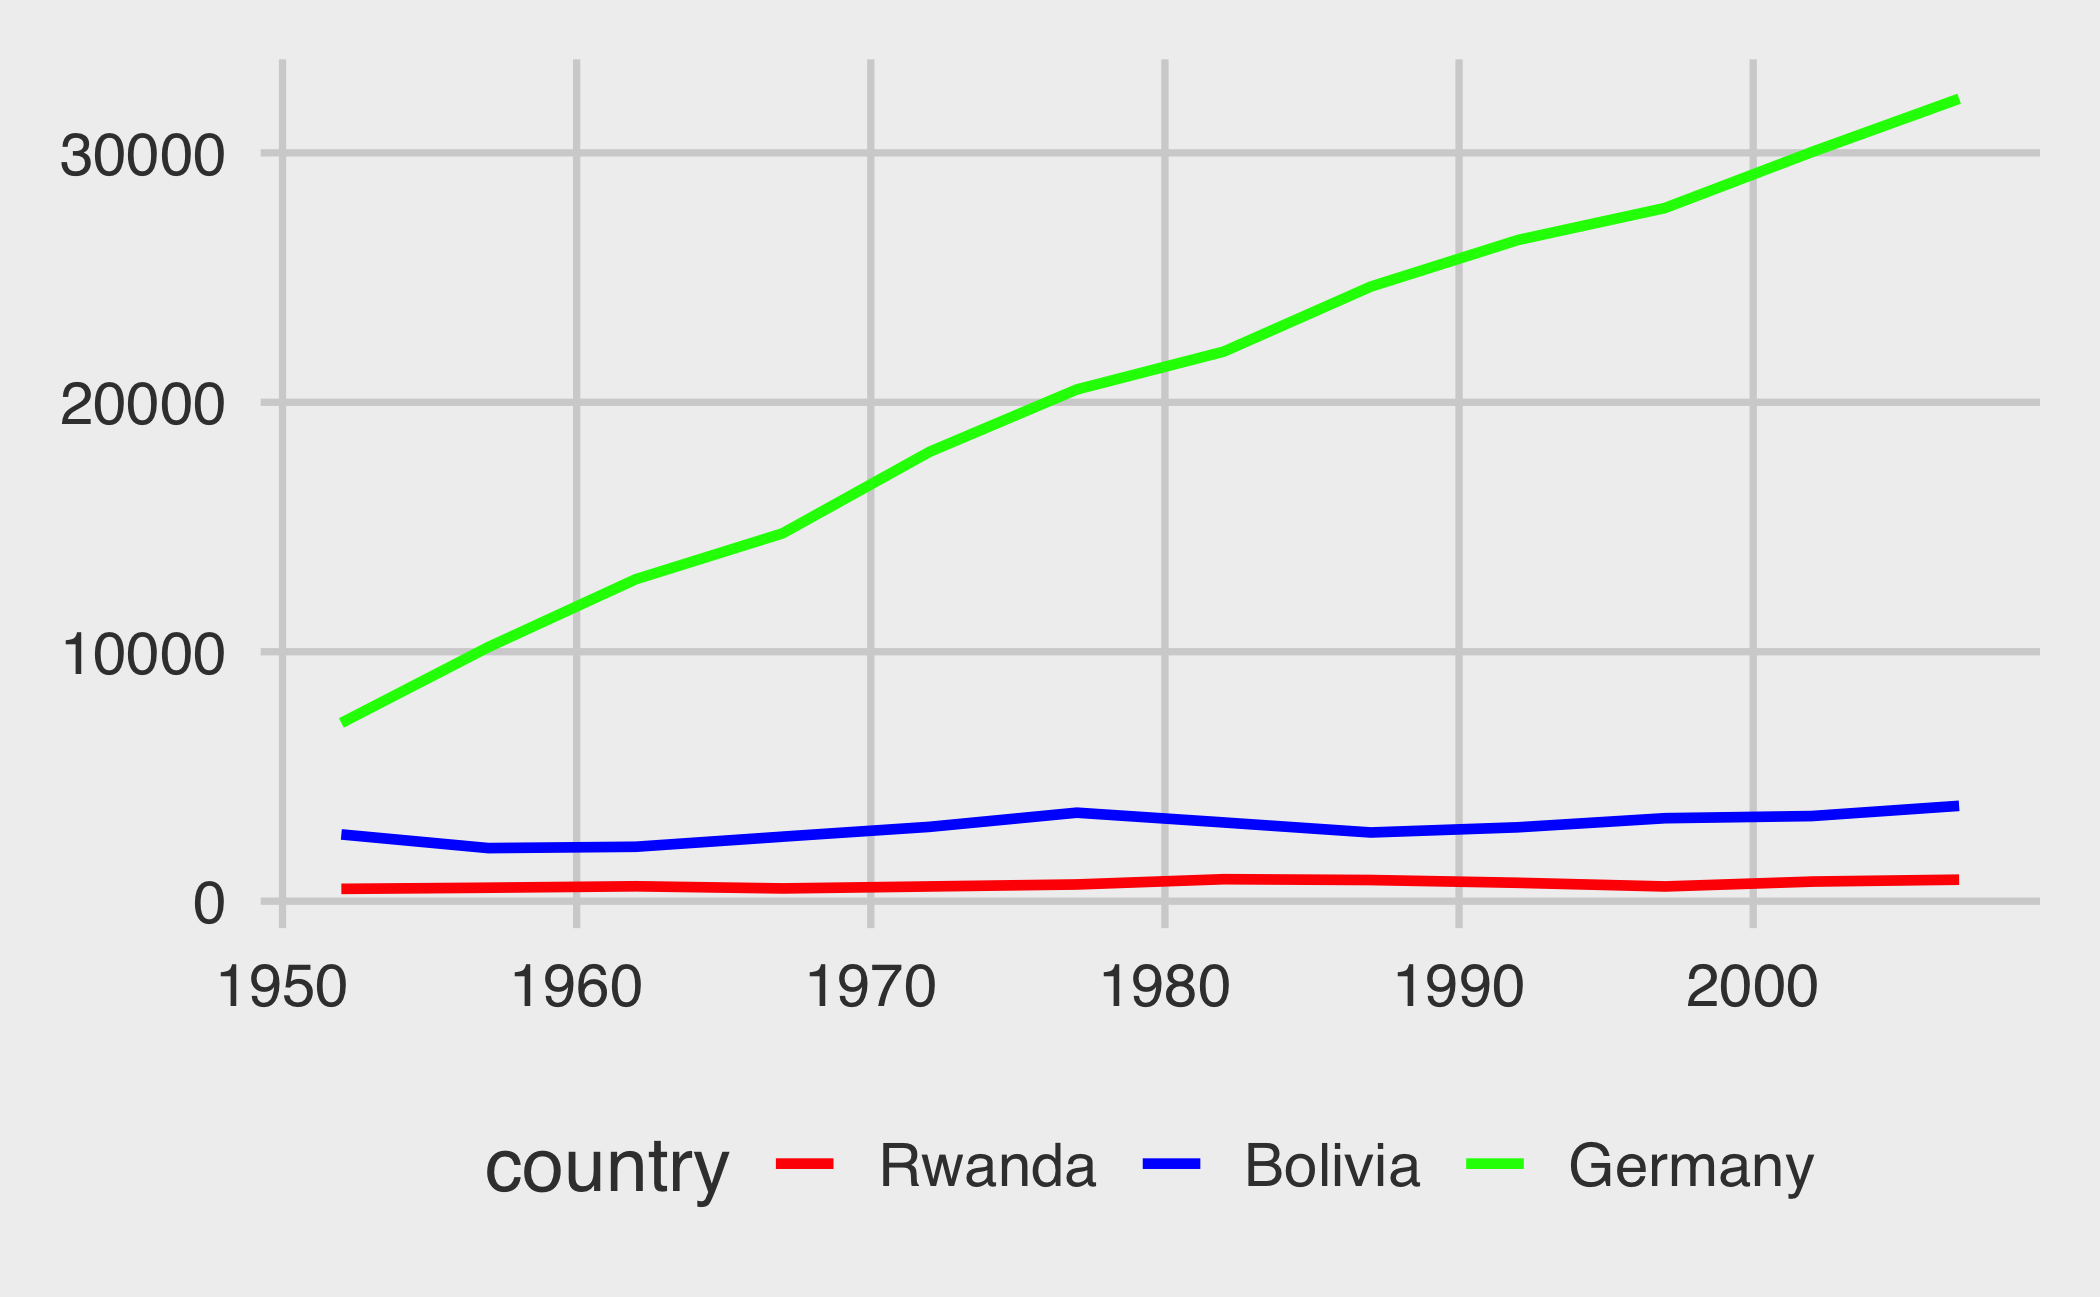
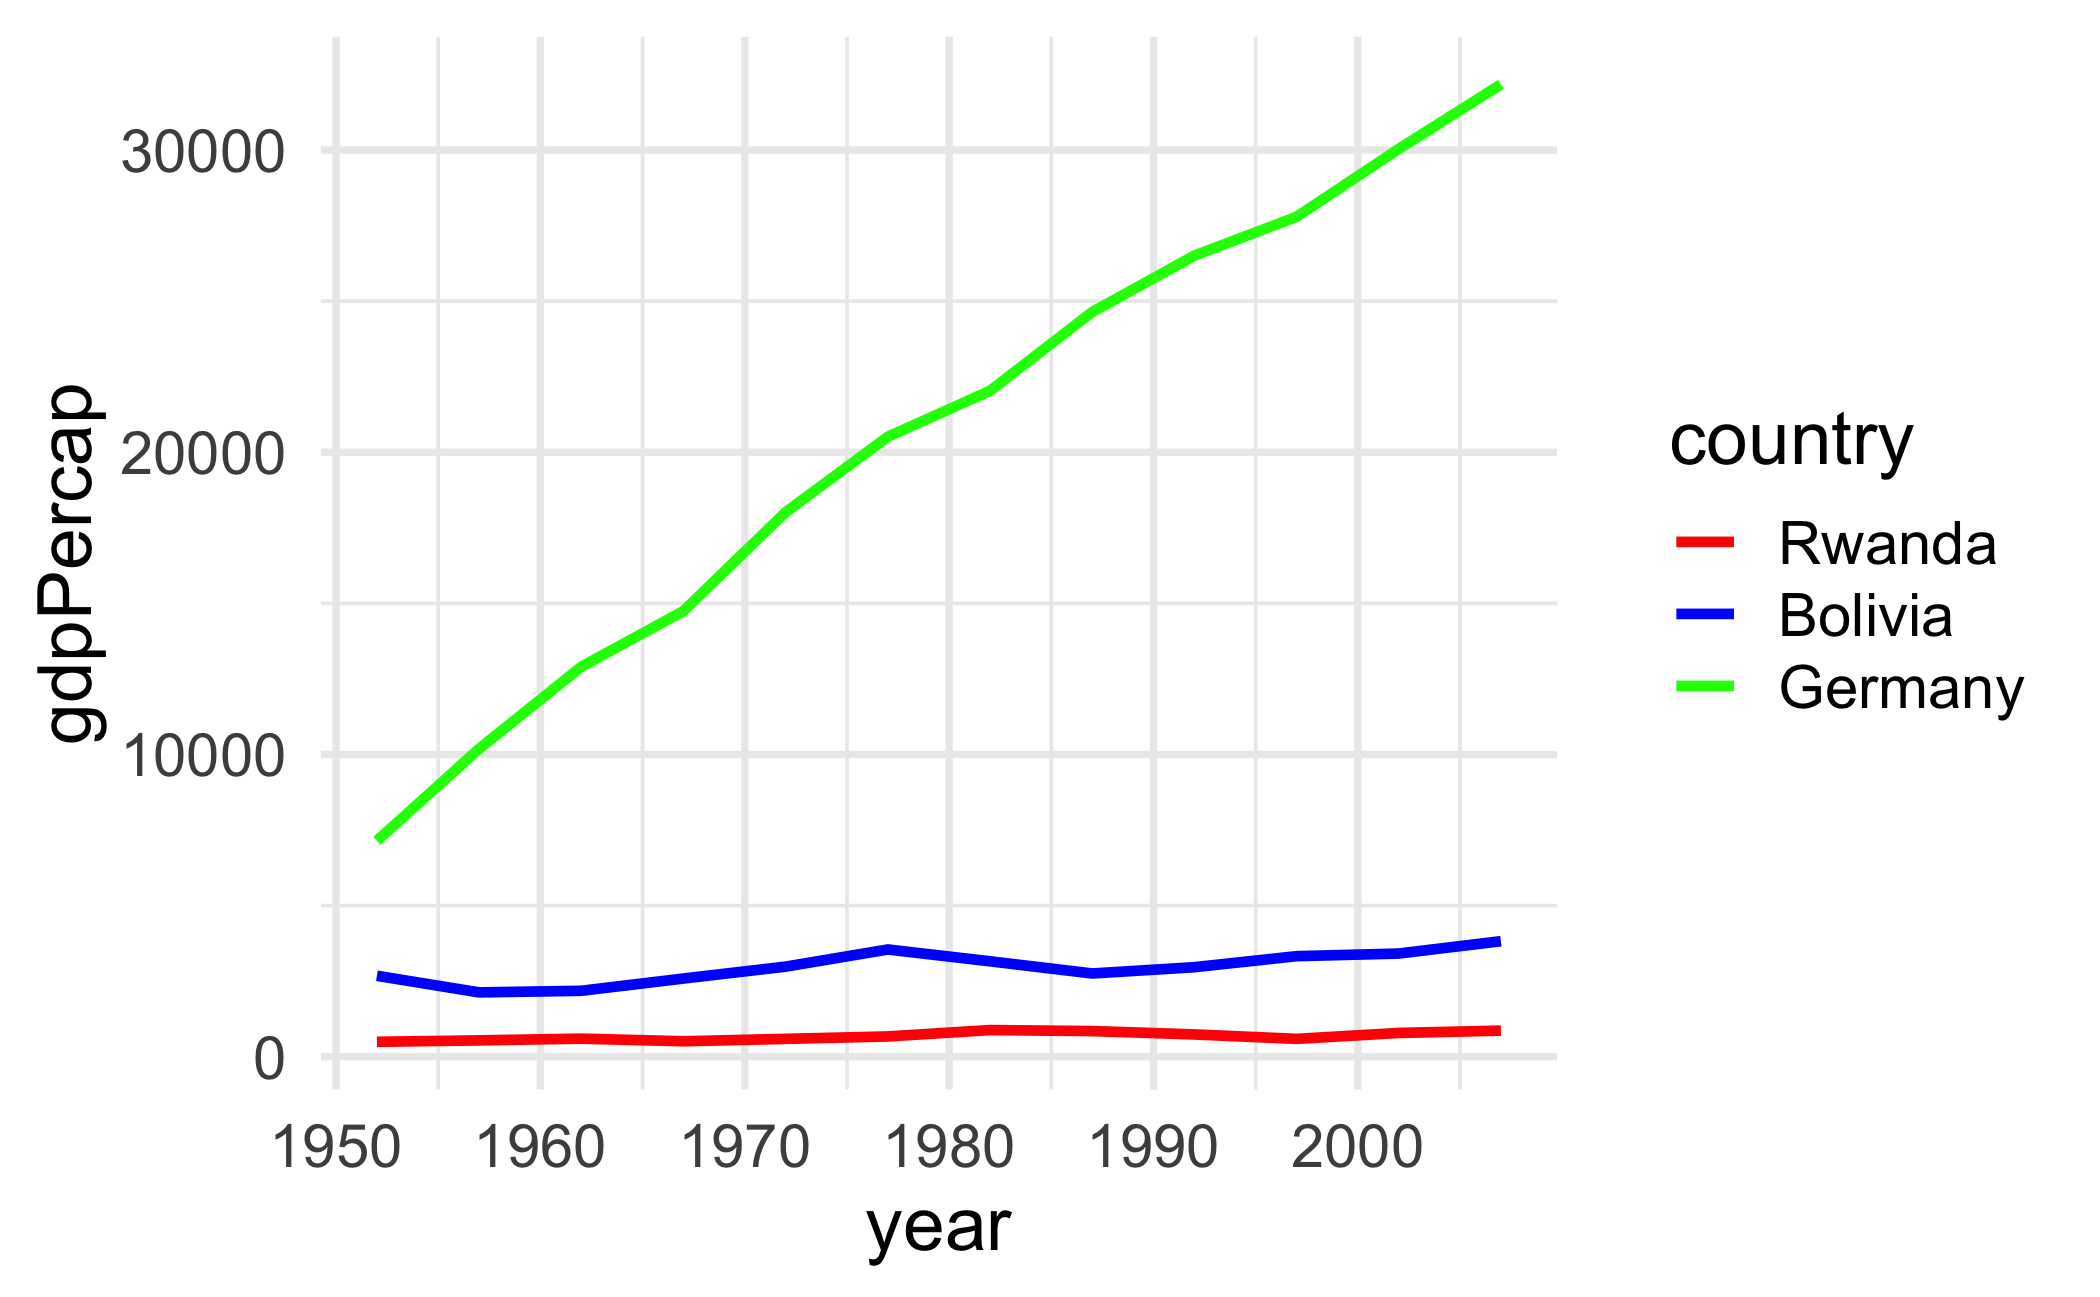
change theme

diff --git a/incremental_slides.html b/incremental_slides.html
@@ -41,7 +41,7 @@ We'll use a subset of the `gapminder` dataset and a little bit of data manipulat
 library(tidyverse)
 library(gapminder)
 
-theme_set(ggthemes::theme_fivethirtyeight(base_size = 18))
+theme_set(theme_minimal(base_size = 18))
 
 minigap = gapminder %&gt;%
   filter(country %in% c("Bolivia", "Rwanda", "Germany")) %&gt;% 
